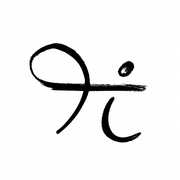
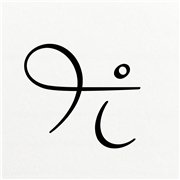
update_icon_revised

Changed region(s): [[0.1111, 0.2222, 0.8333, 0.8333]]

diff --git a/index.html b/index.html
@@ -2,6 +2,7 @@
 <html lang="en" class="dark">
   <head>
     <meta charset="UTF-8" />
+    <link rel="icon" type="image/svg+xml" href="/pi_logo.svg" />
     <link rel="icon" type="image/png" sizes="32x32" href="/favicon-32.png" />
     <link rel="icon" type="image/png" sizes="48x48" href="/favicon-48.png" />
     <link rel="icon" type="image/png" sizes="192x192" href="/pi-logo-192.png" />
@@ -22,11 +23,11 @@
     <meta property="og:url" content="https://pi-project-mvp.vercel.app/" />
     <meta property="og:title" content="Pi (π) – AI-Native Opportunity Ecosystem" />
     <meta property="og:description" content="Connect. Learn. Build. Create. Earn. Grow. Digital Twin matching, communities, and investor-ready experience." />
-    <meta property="og:image" content="https://pi-project-mvp.vercel.app/pi-logo-512.png" />
+    <meta property="og:image" content="https://pi-project-mvp.vercel.app/pi_logo.png" />
     <meta name="twitter:card" content="summary_large_image" />
     <meta name="twitter:title" content="Pi (π) – AI-Native Opportunity Ecosystem" />
     <meta name="twitter:description" content="Connect. Learn. Build. Create. Earn. Grow." />
-    <meta name="twitter:image" content="https://pi-project-mvp.vercel.app/pi-logo-512.png" />
+    <meta name="twitter:image" content="https://pi-project-mvp.vercel.app/pi_logo.png" />
     <link rel="preconnect" href="https://fonts.googleapis.com" />
     <link rel="preconnect" href="https://fonts.gstatic.com" crossorigin />
     <link href="https://fonts.googleapis.com/css2?family=Roboto:ital,wght@0,300;0,400;0,500;0,700;0,900;1,400;1,500&display=swap" rel="stylesheet" />
@@ -49,7 +50,7 @@
         "@type": "Organization",
         "name": "Pi",
         "url": "https://pi-project-mvp.vercel.app/",
-        "logo": "https://pi-project-mvp.vercel.app/pi-logo-512.png",
+        "logo": "https://pi-project-mvp.vercel.app/pi_logo.png",
         "description": "AI-native ecosystem for human connection, collaboration, and opportunity."
       }
     </script>

diff --git a/src/components/PiLogo.tsx b/src/components/PiLogo.tsx
@@ -3,23 +3,54 @@ type Props = {
   className?: string
   rounded?: string
   alt?: string
+  /**
+   * Dark UI surfaces: invert black SVG mark to white.
+   * Light surfaces (e.g. emails, print): leave natural black mark.
+   */
+  onDark?: boolean
+  /** Prefer raster PNG (white plate) instead of SVG mark */
+  raster?: boolean
 }
 
-/** Brand mark from cousin’s icon.jpeg → public/pi-logo-*.png */
+/**
+ * Pi brand mark — Cristian’s official assets:
+ * - Logo SVG: /pi_logo.svg
+ * - Logo Image: /pi_logo.png
+ */
 export default function PiLogo({
   size = 36,
   className = '',
   rounded = 'rounded-xl',
   alt = 'Pi',
+  onDark = true,
+  raster = false,
 }: Props) {
+  const src = raster ? '/pi_logo.png' : '/pi_logo.svg'
+
   return (
     <img
-      src="/pi-logo-192.png"
+      src={src}
       alt={alt}
       width={size}
       height={size}
-      className={`${rounded} object-cover shrink-0 ${className}`}
+      className={[
+        rounded,
+        'object-contain shrink-0',
+        onDark && !raster ? 'invert' : '',
+        className,
+      ]
+        .filter(Boolean)
+        .join(' ')}
       draggable={false}
+      onError={e => {
+        const el = e.currentTarget
+        if (el.src.includes('pi_logo.svg')) {
+          el.src = '/pi_logo.png'
+          el.classList.remove('invert')
+        } else if (!el.src.includes('pi-logo-192')) {
+          el.src = '/pi-logo-192.png'
+        }
+      }}
     />
   )
 }

diff --git a/src/components/InstallPiBanner.tsx b/src/components/InstallPiBanner.tsx
@@ -56,7 +56,7 @@ export default function InstallPiBanner() {
       style={{ background: 'rgba(20,184,166,0.1)' }}
     >
       <div className="flex items-start gap-3 flex-1 min-w-0">
-        <img src="/pi-logo-192.png" alt="Pi" className="w-10 h-10 rounded-xl shrink-0" />
+        <img src="/pi_logo.png" alt="Pi" className="w-10 h-10 rounded-xl shrink-0 object-contain bg-white" />
         <div className="min-w-0">
           <p className="text-white text-sm font-bold">Install Pi as an app</p>
           <p className="text-slate-400 text-xs leading-relaxed mt-0.5">

diff --git a/src/lib/seo.ts b/src/lib/seo.ts
@@ -6,7 +6,7 @@ export const SITE_URL = (
     : 'https://pi-project-mvp.vercel.app'
 ).replace(/\/$/, '')
 
-export const DEFAULT_OG_IMAGE = `${SITE_URL}/pi-logo-512.png`
+export const DEFAULT_OG_IMAGE = `${SITE_URL}/pi_logo.png`
 
 export type SeoPage = {
   path: string
